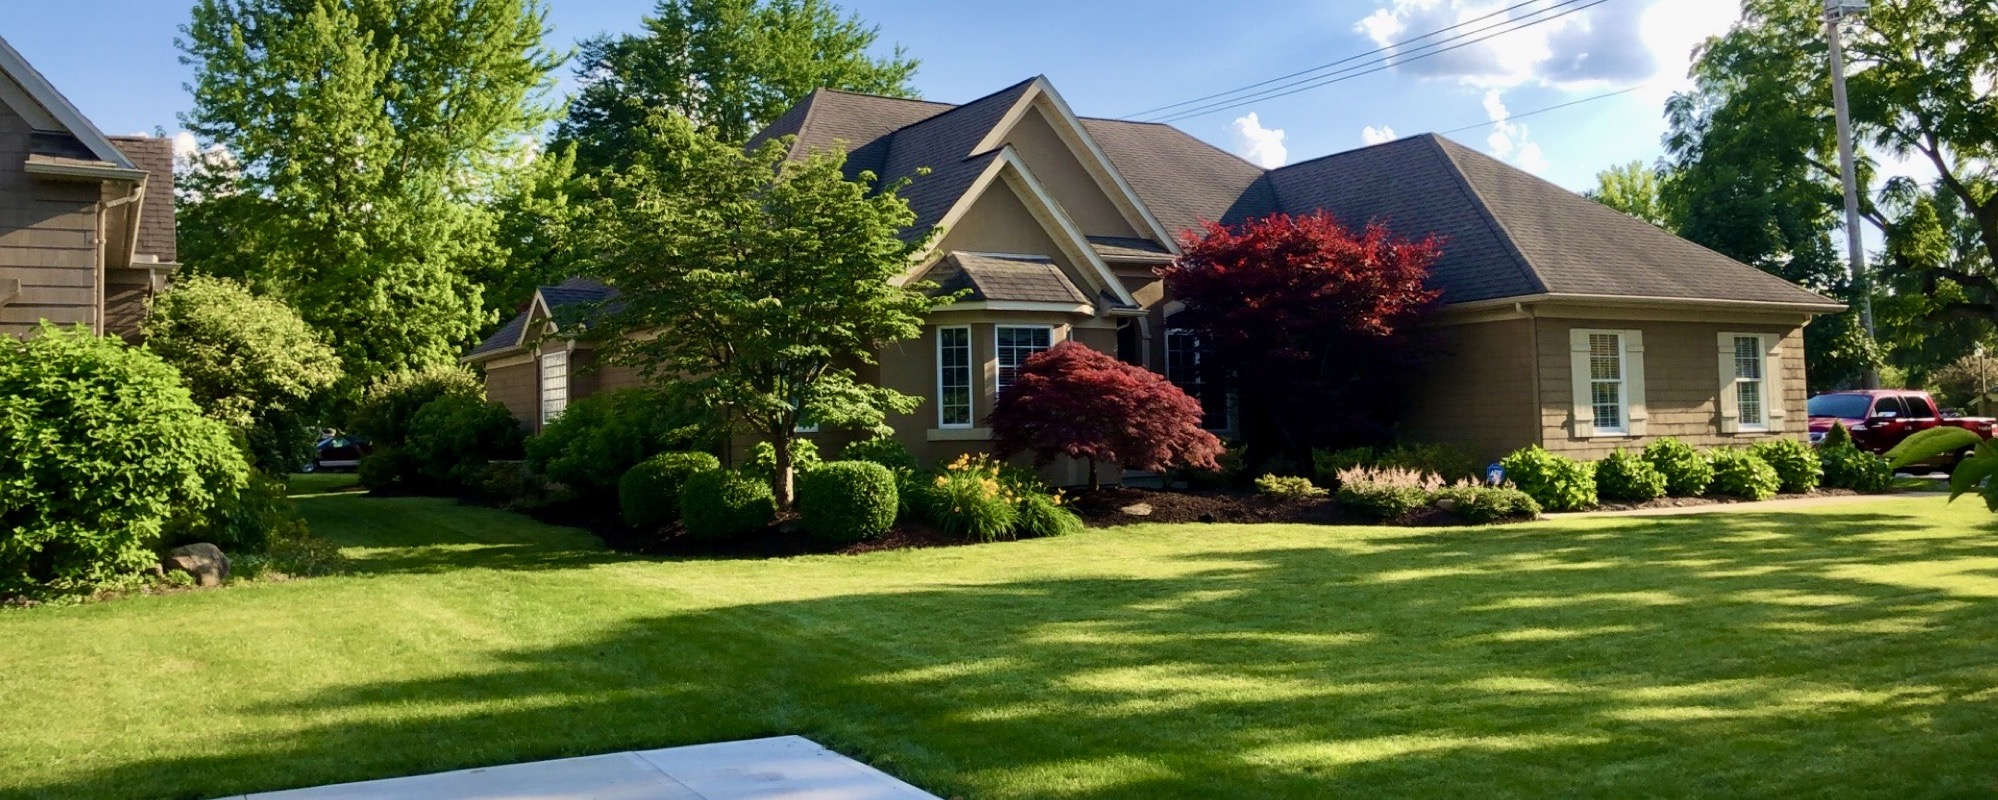
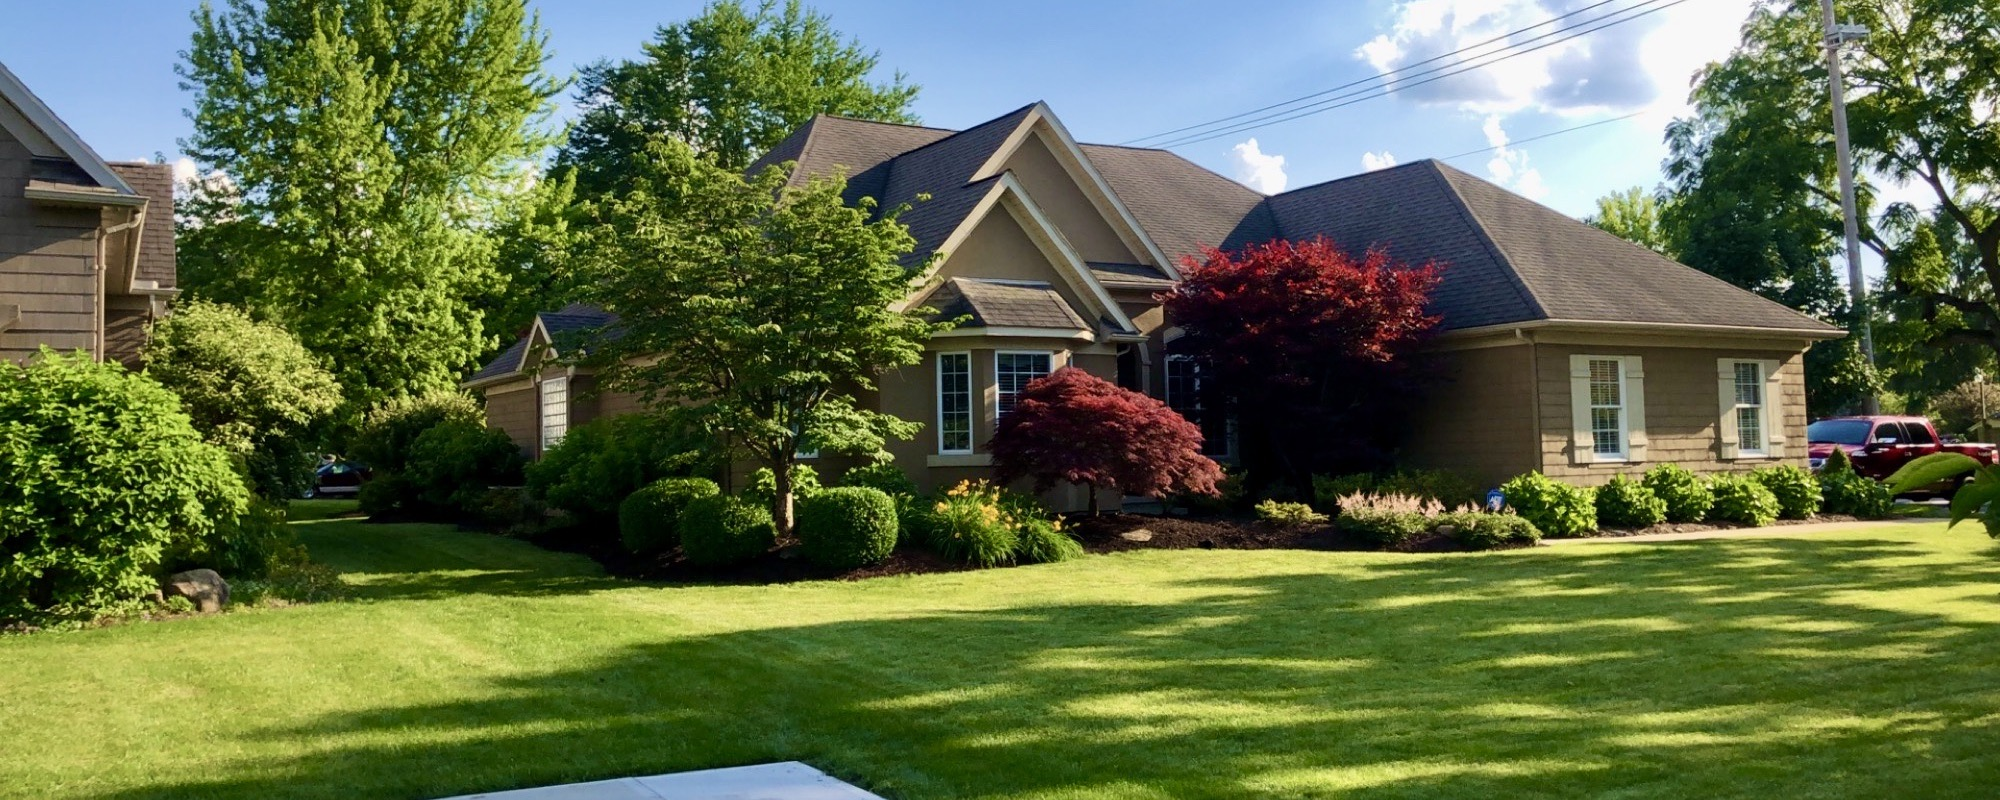
Added small tweaks to navbar padding and got rid of extra space below jumbotron images

diff --git a/src/css/style.css b/src/css/style.css
@@ -69,7 +69,7 @@
   -webkit-box-direction: normal;
       -ms-flex-direction: column;
           flex-direction: column;
-  margin: 5px 0 0;
+  margin: 5px 0 10px;
   padding: 0;
 }
 
@@ -156,7 +156,9 @@
     left: 0;
     bottom: -33px;
     content: "";
-    width: 100%;
+    left: 2%;
+    width: 96%;
+    margin: 0 auto;
     height: 4px;
     background-color: #00994a;
   }
@@ -168,7 +170,8 @@
     left: 0;
     bottom: -33px;
     content: "";
-    width: 100%;
+    left: 2%;
+    width: 96%;
     height: 4px;
     background-color: #00994a;
   }
@@ -180,10 +183,10 @@ footer {
 
 .swiper-container {
   background-color: black;
-  line-height: 0;
 }
 
 .swiper-container .jumbotron-image {
+  vertical-align: bottom;
   width: 100%;
   height: auto;
   opacity: 0.7;
@@ -192,6 +195,8 @@ footer {
 .swiper-container .swiper-button-next,
 .swiper-container .swiper-button-prev {
   color: white;
+  position: absolute;
+  top: 20%;
 }
 
 .slideImage1,
@@ -266,12 +271,21 @@ footer {
 }
 
 @media only screen and (min-width: 750px) {
+  .swiper-container .swiper-button-next,
+  .swiper-container .swiper-button-prev {
+    top: 30%;
+  }
   .slide-text {
     width: 750px;
   }
 }
 
 @media only screen and (min-width: 989px) {
+  .swiper-container .swiper-button-next,
+  .swiper-container .swiper-button-prev {
+    position: absolute;
+    top: 50%;
+  }
   .swiper-pagination {
     display: block;
   }

diff --git a/src/css/components/_jumbotron.scss b/src/css/components/_jumbotron.scss
@@ -1,7 +1,7 @@
 .swiper-container {
   background-color: black;
-  line-height: 0;
   .jumbotron-image {
+    vertical-align: bottom;
     width: 100%;
     height: auto;
     opacity: 0.7;
@@ -9,6 +9,8 @@
   .swiper-button-next,
   .swiper-button-prev {
     color: white;
+    position: absolute;
+    top: 20%;
   }
 }
 
@@ -76,12 +78,27 @@
 }
 
 @media only screen and (min-width: 750px) {
+  .swiper-container {
+    .swiper-button-next,
+    .swiper-button-prev {
+      top: 30%;
+    }
+  }
+
   .slide-text {
     width: 750px;
   }
 }
 
 @media only screen and (min-width: 989px) {
+  .swiper-container {
+    .swiper-button-next,
+    .swiper-button-prev {
+      position: absolute;
+      top: 50%;
+    }
+  }
+
   .swiper-pagination {
     display: block;
   }

diff --git a/src/css/components/_nav.scss b/src/css/components/_nav.scss
@@ -50,7 +50,7 @@
       list-style-type: none;
       display: flex;
       flex-direction: column;
-      margin: 5px 0 0;
+      margin: 5px 0 10px;
       padding: 0;
       li {
         &:nth-child(1n + 2) {
@@ -128,7 +128,9 @@
                   left: 0;
                   bottom: -33px;
                   content: "";
-                  width: 100%;
+                  left: 2%;
+                  width: 96%;
+                  margin: 0 auto;
                   height: 4px;
                   background-color: $secondary-color;
                 }
@@ -149,7 +151,8 @@
       left: 0;
       bottom: -33px;
       content: "";
-      width: 100%;
+      left: 2%;
+      width: 96%;
       height: 4px;
       background-color: $secondary-color;
     }

diff --git a/src/components/Jumbotron/jumbotron.js b/src/components/Jumbotron/jumbotron.js
@@ -26,7 +26,9 @@ function Jumbotron() {
   return (
     <Swiper {...params}>
       <div className="swiper-slide slideImage1">
+        <div className="jumbotron-image-wrapper">
         <img src={slideImage1} className="jumbotron-image" alt="img3"></img>
+        </div>
         <div className="slide-content">
           <div className="slide-text">
             <h2>
